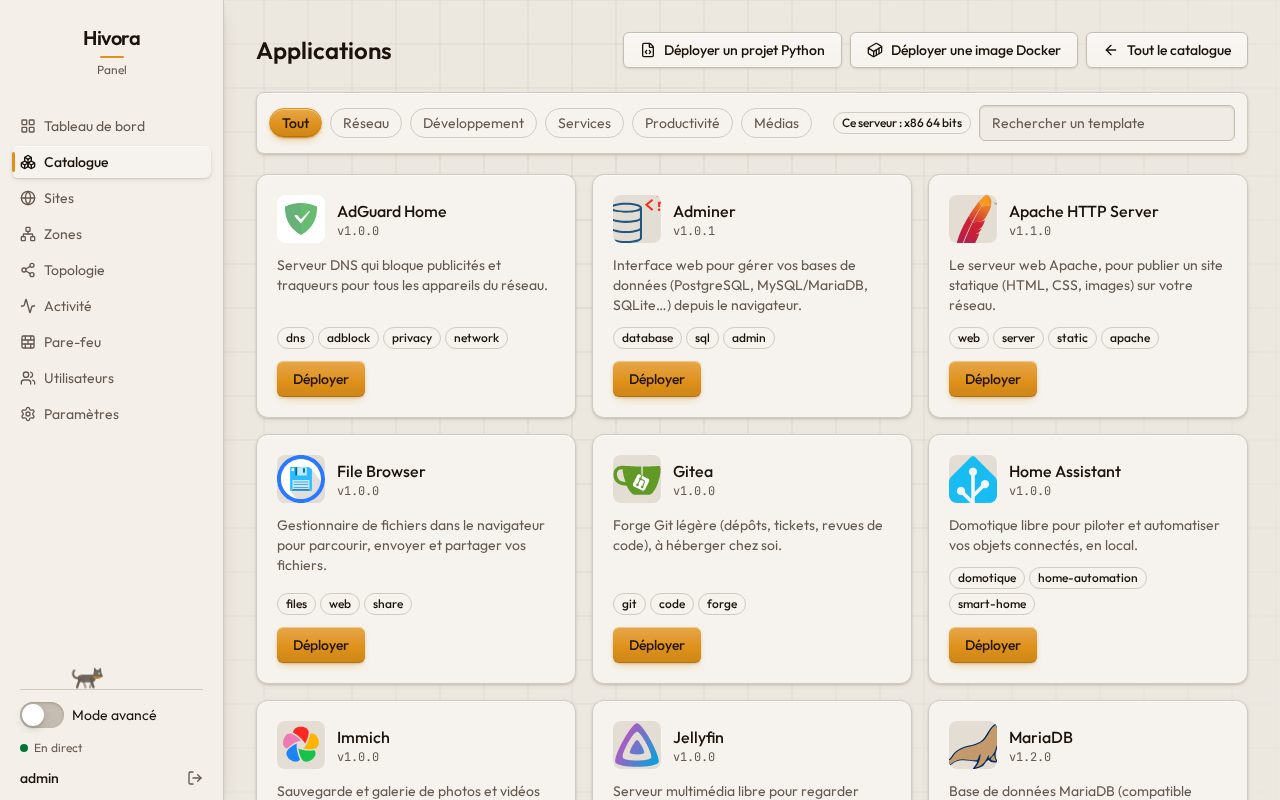
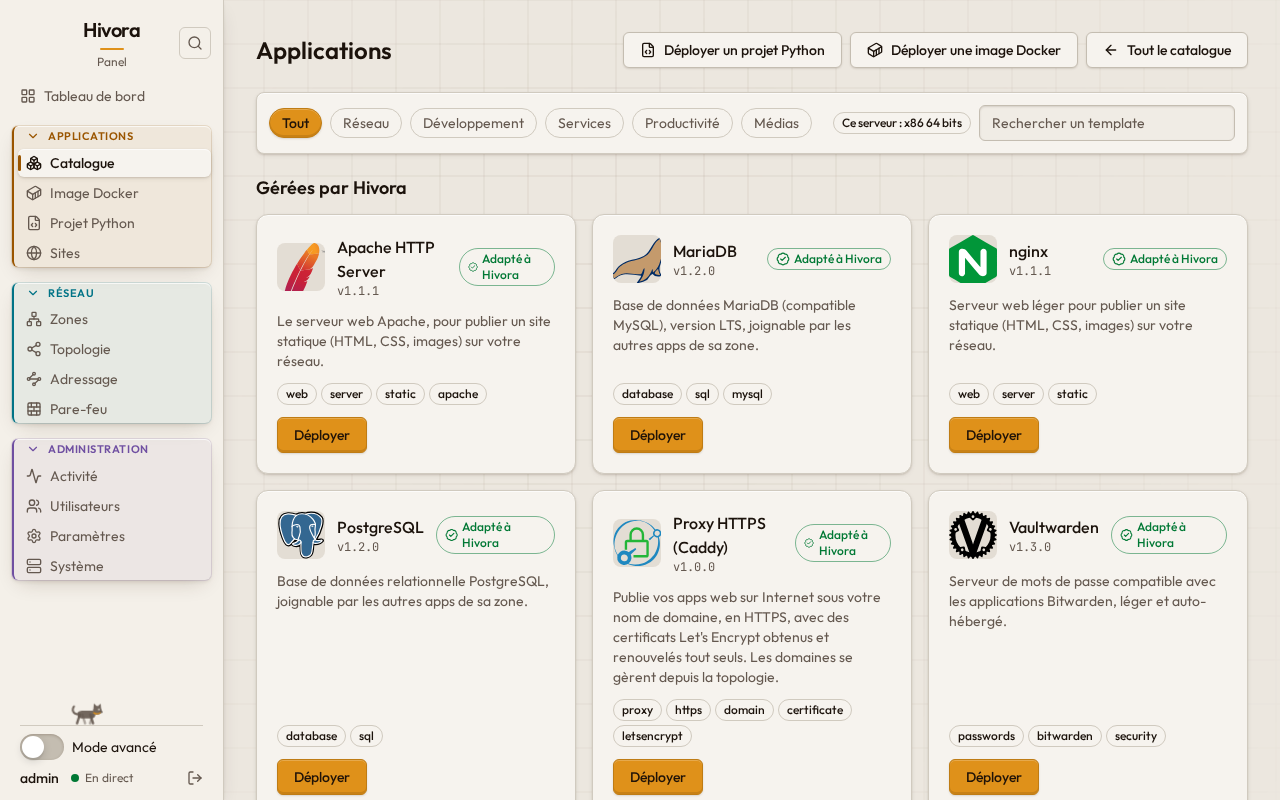
Professional examples: no game references in examples, messages, docs and screenshots

diff --git a/frontend/lib/i18n/fr.ts b/frontend/lib/i18n/fr.ts
@@ -578,7 +578,7 @@ export const fr = {
   "error.proxy_domain_taken": "Ce domaine est déjà utilisé.",
   "error.proxy_route_not_found": "Ce domaine n'existe plus.",
   "error.proxy_apply_failed": "Caddy a refusé la configuration.",
-  "error.vpn_dns_bad_name": "Nom de domaine invalide (ex. minecraft.local).",
+  "error.vpn_dns_bad_name": "Nom de domaine invalide (ex. nas.lan).",
   "error.vpn_dns_name_taken": "Ce nom existe déjà sur ce VPN.",
   "error.vpn_dns_bad_target": "Choisissez une app des zones du VPN ou une adresse IP valide.",
   "error.vpn_dns_record_not_found": "Ce nom n'existe plus.",
@@ -822,7 +822,7 @@ export const fr = {
   "catalog.section.others": "Autres applications",
   "catalog.verified": "Adapté à Hivora",
   "catalog.verifiedHelp": "Modèle retravaillé et testé pour Hivora",
-  "catalog.incompatibleHelp": "Aucune image de ce jeu n'existe pour le processeur de ce serveur (les serveurs Steam n'existent souvent qu'en x86).",
+  "catalog.incompatibleHelp": "Aucune image de cette application n'existe pour le processeur de ce serveur (certaines images n'existent qu'en x86).",
   "catalog.only.amd64": "x86 uniquement",
   "catalog.only.arm64": "ARM uniquement",
   "catalog.hostArch": "Ce serveur : {arch}",

diff --git a/frontend/lib/i18n/en.ts b/frontend/lib/i18n/en.ts
@@ -579,7 +579,7 @@ export const en: Record<MessageKey, string> = {
   "error.proxy_domain_taken": "This domain is already used.",
   "error.proxy_route_not_found": "This domain no longer exists.",
   "error.proxy_apply_failed": "Caddy refused the configuration.",
-  "error.vpn_dns_bad_name": "Invalid domain name (e.g. minecraft.local).",
+  "error.vpn_dns_bad_name": "Invalid domain name (e.g. nas.lan).",
   "error.vpn_dns_name_taken": "This name already exists on this VPN.",
   "error.vpn_dns_bad_target": "Pick an app of the VPN's zones or a valid IP address.",
   "error.vpn_dns_record_not_found": "This name no longer exists.",
@@ -823,7 +823,7 @@ export const en: Record<MessageKey, string> = {
   "catalog.section.others": "Other applications",
   "catalog.verified": "Made for Hivora",
   "catalog.verifiedHelp": "Template reworked and tested for Hivora",
-  "catalog.incompatibleHelp": "No image of this game exists for this server's processor (Steam servers are often x86 only).",
+  "catalog.incompatibleHelp": "No image of this application exists for this server's processor (some images are x86 only).",
   "catalog.only.amd64": "x86 only",
   "catalog.only.arm64": "ARM only",
   "catalog.hostArch": "This server: {arch}",

diff --git a/frontend/e2e/screenshots/readme.spec.ts b/frontend/e2e/screenshots/readme.spec.ts
@@ -22,13 +22,13 @@ async function deploy(page: Page, headers: Record<string, string>, template: str
 
 test("README screenshots", async ({ page }) => {
   const headers = await signIn(page);
-  for (const [name, color] of [["Médias", "#7c3aed"], ["Jeux", "#16a34a"], ["Maison", "#0284c7"]]) {
+  for (const [name, color] of [["Médias", "#7c3aed"], ["Bureau", "#16a34a"], ["Maison", "#0284c7"]]) {
     await page.request.post("/api/v1/zones", { headers, data: { name, color, network_mode: "shared" } });
   }
   await deploy(page, headers, "jellyfin", "Jellyfin", "medias");
   await deploy(page, headers, "immich", "Immich", "medias");
-  await deploy(page, headers, "minecraft", "Minecraft", "jeux", { eula: true });
-  await deploy(page, headers, "terraria", "Terraria", "jeux");
+  await deploy(page, headers, "paperless-ngx", "Paperless-ngx", "bureau", { admin_password: "demo-password-123" });
+  await deploy(page, headers, "stirling-pdf", "Stirling PDF", "bureau");
   await deploy(page, headers, "home-assistant", "Home Assistant", "maison");
   await deploy(page, headers, "vaultwarden", "Vaultwarden", "maison");
   await deploy(page, headers, "uptime-kuma", "Uptime Kuma", "administration");

diff --git a/frontend/features/proxy/domains.tsx b/frontend/features/proxy/domains.tsx
@@ -114,7 +114,7 @@ export function ProxyCard() {
   );
 }
 
-/** A zone's overview: its apps' names. Behind a VPN, names of the VPN's DNS (minecraft.local);
+/** A zone's overview: its apps' names. Behind a VPN, names of the VPN's DNS (nas.lan);
  *  otherwise public domains, HTTPS through the proxy (installed from here if missing). */
 export function ZoneNames({ zone, vpnId }: { zone: string; vpnId: number | null }) {
   const { t } = useI18n();
@@ -151,7 +151,7 @@ function LocalNames({ zone, vpnId }: { zone: string; vpnId: number }) {
           </li>
         ))}
       </ul>
-      <AddName apps={apps} placeholder="minecraft.local" pending={add.isPending} error={add.error} submit={(name, appId, done) => add.mutate({ name, appId }, { onSuccess: done })} />
+      <AddName apps={apps} placeholder="nas.lan" pending={add.isPending} error={add.error} submit={(name, appId, done) => add.mutate({ name, appId }, { onSuccess: done })} />
     </>
   );
 }

diff --git a/backend/src/hivora/vpn/models.py b/backend/src/hivora/vpn/models.py
@@ -46,7 +46,7 @@ class VpnDnsRecord(Base):
 
     id: Mapped[int] = mapped_column(primary_key=True)
     vpn_app_id: Mapped[int] = mapped_column(ForeignKey("application.id", ondelete="CASCADE"))
-    name: Mapped[str] = mapped_column(String(253))  # e.g. minecraft.local
+    name: Mapped[str] = mapped_column(String(253))  # e.g. nas.lan
     ip: Mapped[str | None] = mapped_column(String(45))
     target_app_id: Mapped[int | None] = mapped_column(
         ForeignKey("application.id", ondelete="CASCADE")

diff --git a/backend/src/hivora/vpn/dns.py b/backend/src/hivora/vpn/dns.py
@@ -30,7 +30,7 @@ class Record:
 def check_name(name: str) -> str:
     name = name.strip().lower().rstrip(".")
     if not NAME.fullmatch(name):
-        raise DnsNameError("invalid domain name (e.g. minecraft.local)", field="name")
+        raise DnsNameError("invalid domain name (e.g. nas.lan)", field="name")
     return name
 
 

diff --git a/docs/vision-prd-architecture.md b/docs/vision-prd-architecture.md
@@ -623,7 +623,7 @@ Une zone est d'abord un regroupement logique (un label `io.hivora.zone`), et seu
 
 - Une application appartient à une seule zone. Les services internes d'une stack (redis, postgres) suivent l'app et n'apparaissent pas comme apps séparées.
 - Une app sans zone est rangée dans « Non classé », visible sur le tableau de bord.
-- Zones système créées à l'installation : Administration (Hivora, WireGuard), non supprimable. Zones suggérées mais facultatives : Gaming, Services, Media.
+- Zones système créées à l'installation : Administration (Hivora, WireGuard), non supprimable. Zones suggérées mais facultatives : Services, Médias, Maison.
 - Changer une app de zone en mode `none` ne touche pas Docker (label mis à jour à la prochaine recréation, métadonnée immédiate). En mode `shared` / `isolated`, Hivora affiche l'impact réseau et demande confirmation, car la stack est recréée.
 - Supprimer une zone déplace ses apps vers « Non classé » ; le réseau Docker n'est supprimé que s'il est vide.
 - **Supprimer une zone et tout son contenu** (05/11/2026) : action de zone `purge` (job `zone_action`) : aperçu (`GET /zones/{slug}/purge` : apps, conteneurs, fichiers, données, blocages), puis `POST /zones/{slug}/purge` (`remove_data`, faux par défaut) supprime chaque app par son propre job (les outils liés avant les apps qu'ils visent), puis la zone et son réseau. Refusé pour Administration et quand une app d'une autre zone est liée à une app de la zone ; un VPN d'une autre zone qui la dessert en est d'abord retiré. Confirmation en tapant le nom de la zone.
